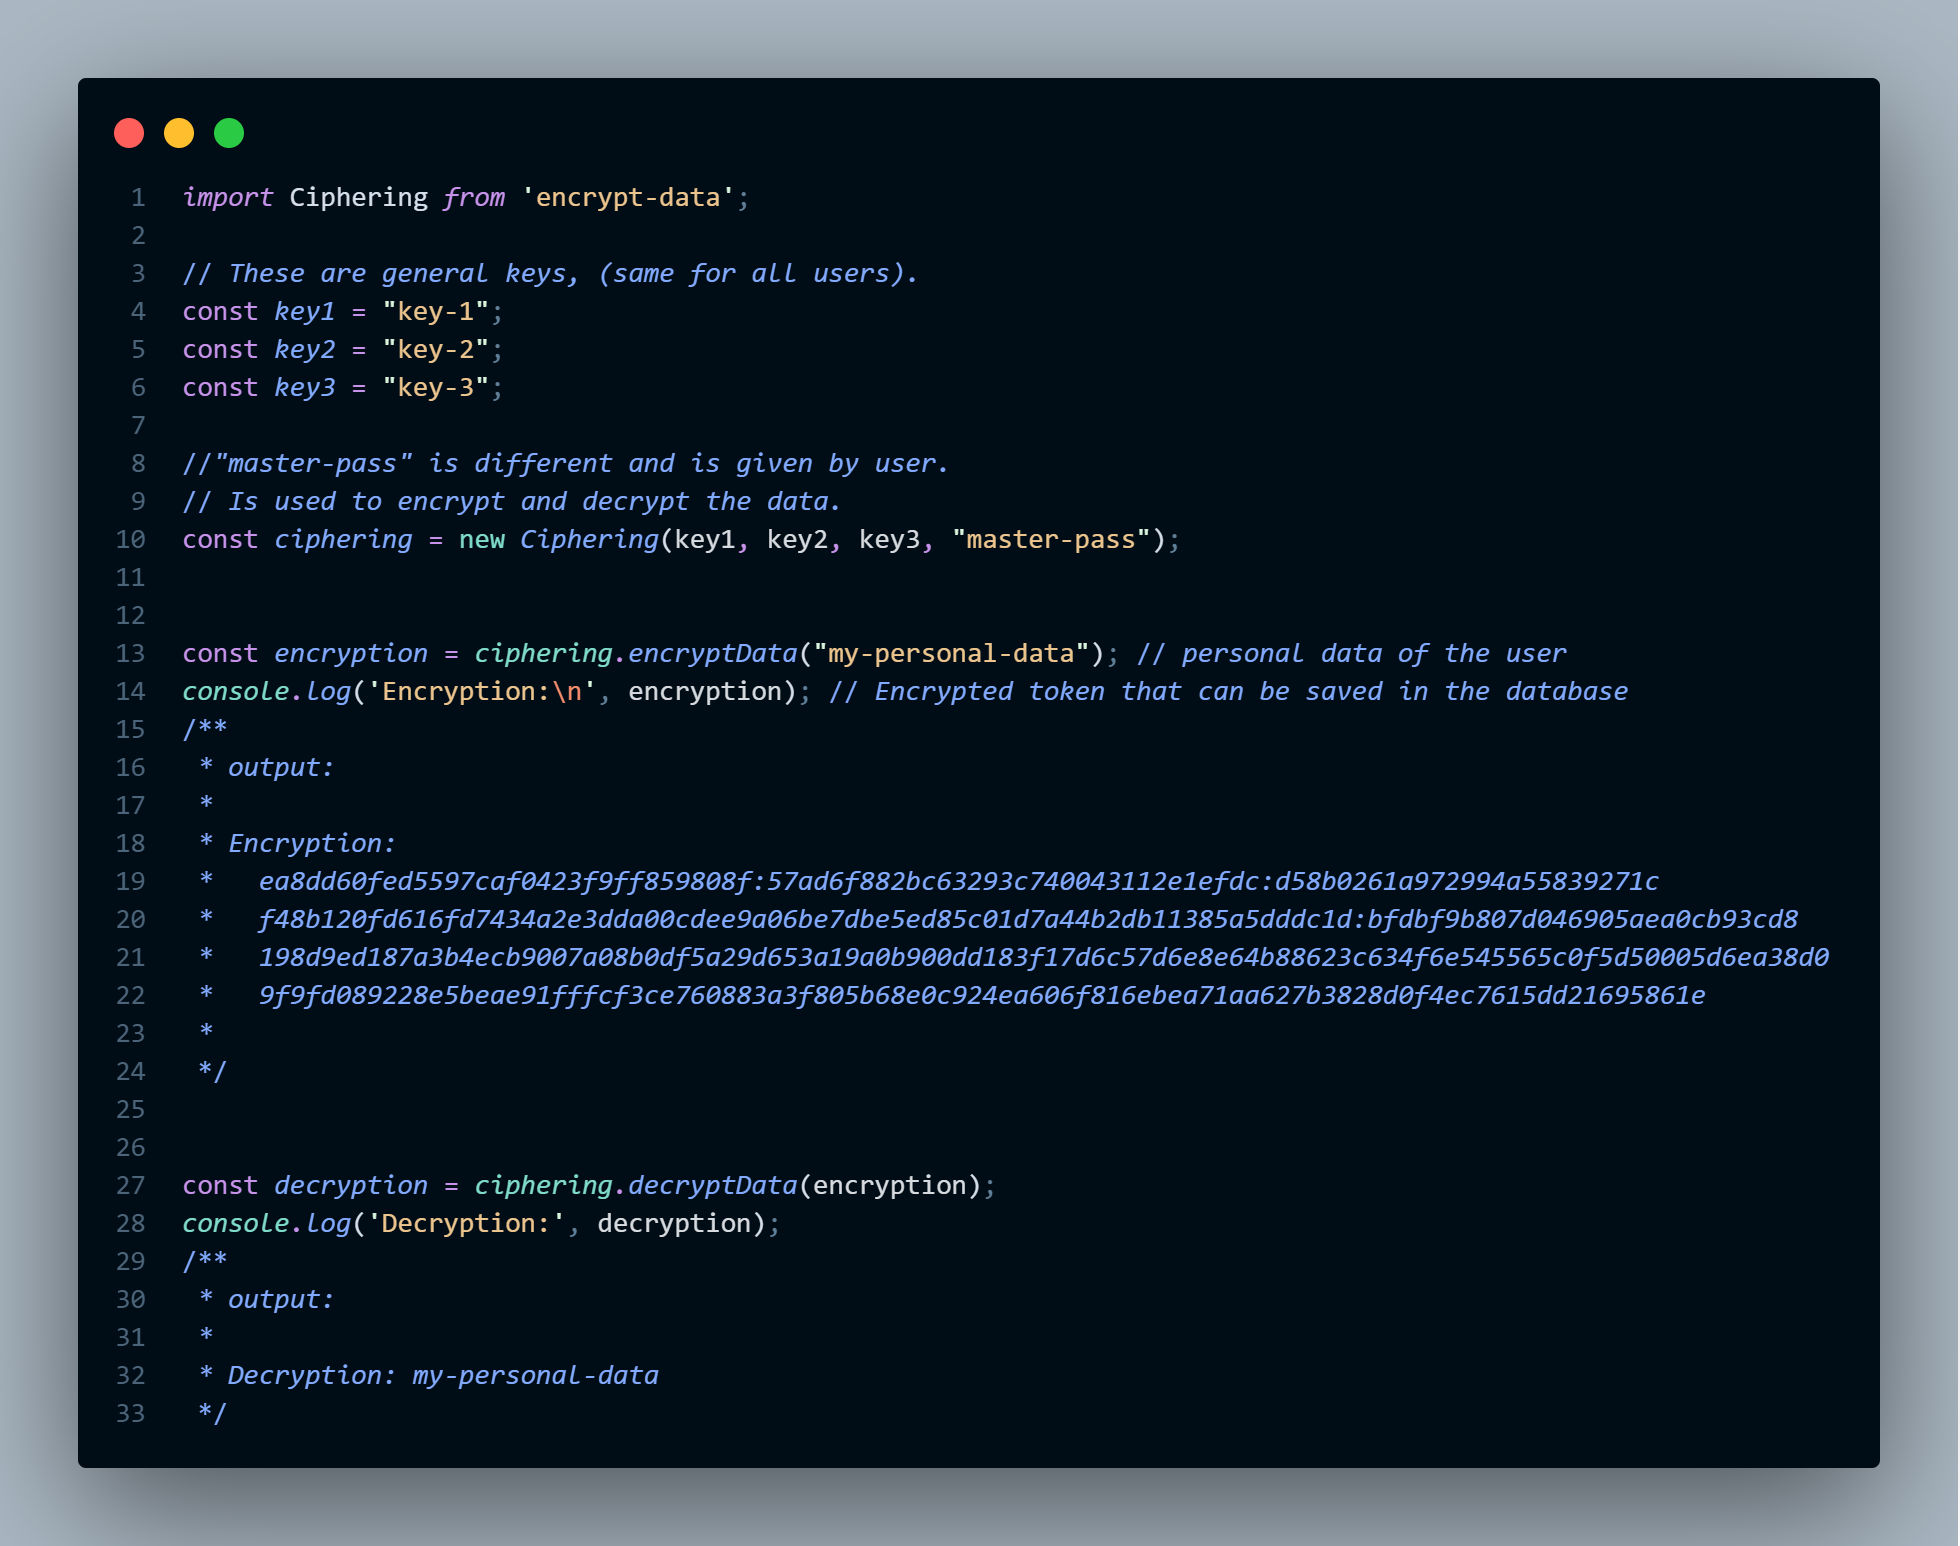
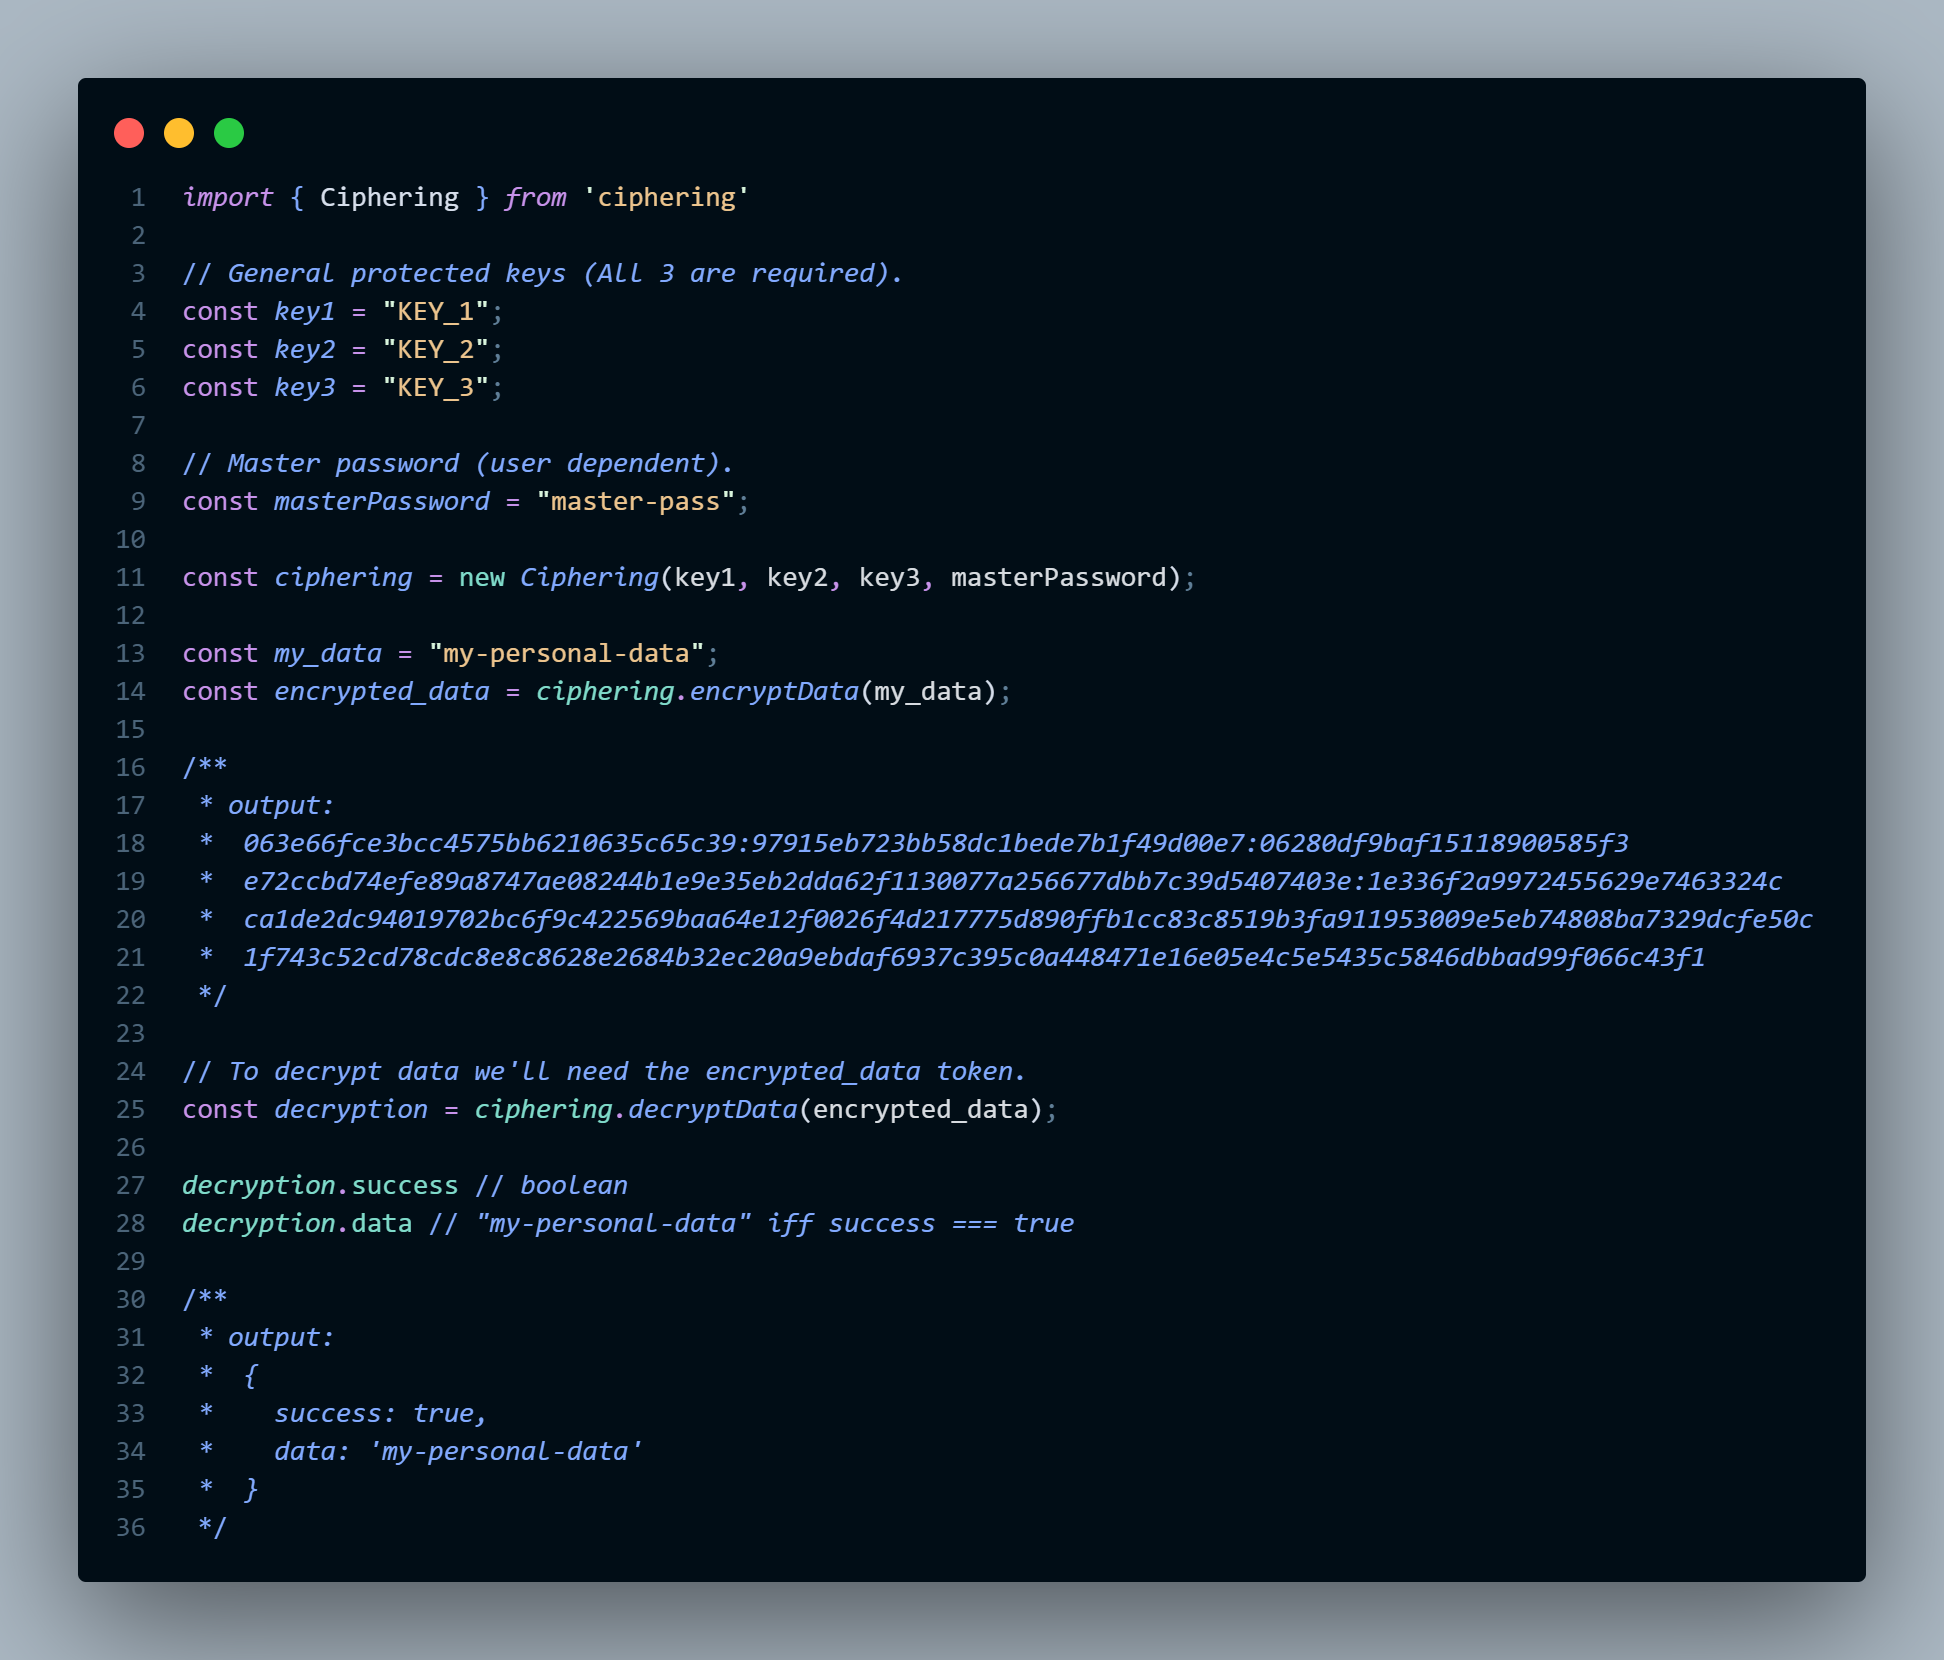
Minor bugs fixed

Changed region(s): [[0.0617, 0.031, 0.9568, 0.9625], [0.5247, 0.7141, 0.5556, 0.7451]]

diff --git a/example/index.js b/example/index.js
@@ -1,0 +1,36 @@
+import { Ciphering } from 'ciphering'
+
+// General protected keys (All 3 are required).
+const key1 = "KEY_1";
+const key2 = "KEY_2";
+const key3 = "KEY_3";
+
+// Master password (user dependent).
+const masterPassword = "master-pass";
+
+const ciphering = new Ciphering(key1, key2, key3, masterPassword);
+
+const my_data = "my-personal-data";
+const encrypted_data = ciphering.encryptData(my_data);
+
+/**
+ * output:
+ *  063e66fce3bcc4575bb6210635c65c39:97915eb723bb58dc1bede7b1f49d00e7:06280df9baf15118900585f3
+ *  e72ccbd74efe89a8747ae08244b1e9e35eb2dda62f1130077a256677dbb7c39d5407403e:1e336f2a9972455629e7463324c
+ *  ca1de2dc94019702bc6f9c422569baa64e12f0026f4d217775d890ffb1cc83c8519b3fa911953009e5eb74808ba7329dcfe50c
+ *  1f743c52cd78cdc8e8c8628e2684b32ec20a9ebdaf6937c395c0a448471e16e05e4c5e5435c5846dbbad99f066c43f1
+ */
+
+// To decrypt data we'll need the encrypted_data token.
+const decryption = ciphering.decryptData(encrypted_data);
+
+decryption.success // boolean
+decryption.data // "my-personal-data" iff success === true
+
+/**
+ * output:
+ *  {
+ *    success: true,
+ *    data: 'my-personal-data'
+ *  }
+ */

diff --git a/README.md b/README.md
@@ -22,7 +22,7 @@ const Ciphering = require('ciphering');
 
 // or
 
-import Ciphering from 'ciphering';
+import { Ciphering } from 'ciphering';
 ```
 
 ### Initializing
